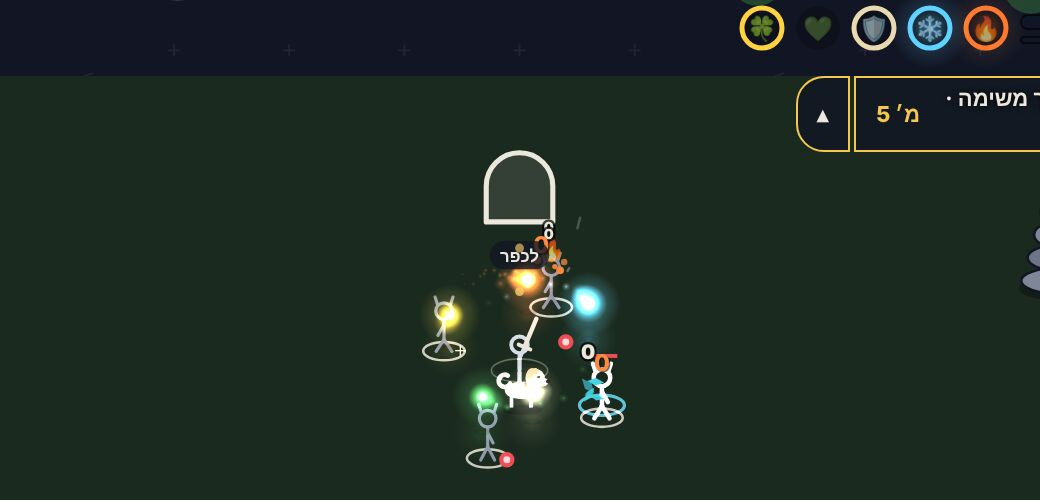
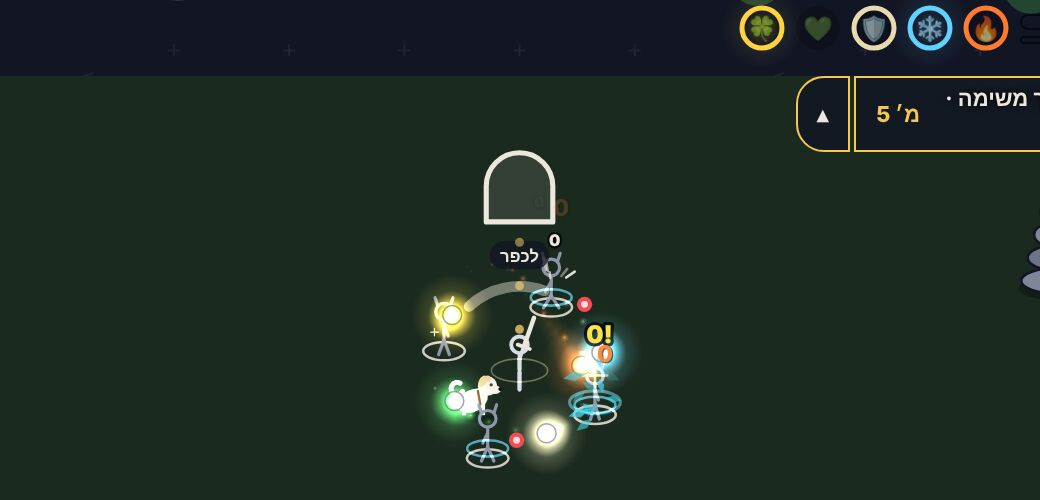
האורות לפי מחקר הקרב: בדיוק במקום הפגיעה, גדולים יותר, פס אור ומספר בצבע האור, כל אור מהבהב לבד, וציד של מטרה שההתקפה לא בוחרת
Claude-Session: https://claude.ai/code/session_01ABMDoKf5qbJWoY9Rj25bT6

Changed region(s): [[0.4, 0.39, 0.6154, 0.93], [0.9231, 0.03, 0.9846, 0.09], [0.7077, 0.03, 0.7385, 0.09]]

diff --git a/js/wisps.js b/js/wisps.js
@@ -10,8 +10,8 @@ const WISPS={
   // צבע הליבה (כמעט לבן) וההילה לכל סוג. אש ממשיכה את C.ember, קרח את C.tide (סוגי הנזק, dmg.js). הגנה: לבן-חמים (ניר, 1.11)
   col:{attack:['#FFF4D6','#FF7A2E'],control:['#F2FDFF','#5FD2FF'],defense:['#FFFBEF','#E8D9B0'],support:['#F2FFE8','#5BD46B'],luck:['#FFFDE6','#FFD23F']},
   r:58, rVar:0.16, wob:0.35,   // רדיוס סביב הדמות, כמה הוא נושם, וכמה כל אור מקדים או מפגר אחרי המקום שלו במעגל
-  h:26, hBob:6,                 // גובה מעל הקרקע, וכמה הוא עולה ויורד
-  core:4.6, halo:24, trail:9,   // גודל הליבה, ההילה, ואורך השובל (נקודות)
+  h:10, hBob:2,                 // גובה מעל הקרקע, וכמה הוא עולה ויורד. נמוך: האור מצויר איפה שהוא פוגע (מחקר הקרב, docs/plan-combat.md שינוי 2)
+  core:7.8, halo:32, trail:9,   // גודל הליבה, ההילה, ואורך השובל (נקודות). פי 1.7 מהגחלילית הראשונה, כדי שיראו אותו בקרב
   lag:7,                        // כמה מהר האור משיג את הדמות כשהיא זזה (קפיץ). קטן = נגרר יותר
   flash:{t:0.28,k:0.9},         // הבזק כשהחפץ פועל: כמה זמן, וכמה בהירות נוספת
   // חלקיקים לכל סוג: כמה בשנייה, מהירות (vx אקראי, vy), כמה זמן חיים, וגודל. vy שלילי עולה, חיובי נופל
@@ -48,12 +48,13 @@ function wispsUpdate(dt){
   WL.list.length=types.length;
   // הבזקים מהמונים של orbit.js: פגיעה (אש וקרח), עצירת ירייה ובליעת מכה (הגנה), ריפוי (עלה)
   const now={hits:o.hits,def:o.blocked+o.shields,heal:o.healed},was=WL.seen||now;WL.seen=now;
-  const fire={attack:now.hits>was.hits,control:now.hits>was.hits,defense:now.def>was.def,support:now.heal>was.heal};
+  const fire={defense:now.def>was.def,support:now.heal>was.heal};   // אש וכפור מהבהבים כל אחד לבד, כשהוא עצמו פגע (wispsAct)
   const n=types.length;
   types.forEach((ty,i)=>{const w=WL.list[i];w.ty=ty;
     if(fire[ty]){w.fl=W.flash.t;W.stat.flashes++}else w.fl=Math.max(0,w.fl-dt);
     const a=o.a+i*6.283/n+W.wob*Math.sin(t*0.7*w.sp+w.ph),R=W.r*(1+W.rVar*Math.sin(t*1.3*w.sp+w.ph*2));
-    const hh=typeof WH!=='undefined'&&WH[i]&&WH[i].ph,tx=hh?WH[i].x:P.x+Math.cos(a)*R,ty_=hh?WH[i].y:P.y+Math.sin(a)*R*0.85,k=hh?1:1-Math.exp(-W.lag*dt);   // בציד (WHUNT למטה) האור עף לאויב
+    // בדיוק איפה שהחפץ פוגע (S.orb.pos, orbit.js), בלי גרירה. בציד (WHUNT למטה) האור עף לאויב
+    const hh=typeof WH!=='undefined'&&WH[i]&&WH[i].ph,g=o.pos[i]||{x:P.x+Math.cos(a)*R,y:P.y+Math.sin(a)*R},tx=hh?WH[i].x:g.x,ty_=hh?WH[i].y:g.y,k=1;
     w.x+=(tx-w.x)*k;w.y+=(ty_-w.y)*k;w.h=W.h+W.hBob*Math.sin(t*2.1*w.sp+w.ph)+3*Math.sin(t*5.3+w.ph);
     w.tr.unshift({x:w.x,y:w.y-w.h});if(w.tr.length>W.trail)w.tr.pop();
     const pd=W.parts[ty];if(!pd||!pd.rate)return;
@@ -87,6 +88,7 @@ function drawWisps(){
     for(let k=1;k<w.tr.length;k++){const p=w.tr[k],f=1-k/w.tr.length;wispBlit(g,p.x,p.y,W.halo*0.55*f+2,0.45*f*b)}   // שובל
     wispBlit(g,c.x,c.y,W.halo*(0.9+0.1*Math.min(b,1.5)),0.75*b);
     wispBlit(gh,c.x,c.y,W.core*(2.4+w.fl/W.flash.t),b);
+    ctx.globalCompositeOperation='source-over';ctx.globalAlpha=0.35;ctx.strokeStyle='#05070D';ctx.lineWidth=1.2;ctx.beginPath();ctx.arc(c.x,c.y,W.core*0.95,0,7);ctx.stroke();ctx.globalCompositeOperation='lighter';   // טבעת כהה דקה: מפרידה מהדשא
     if(w.ty==='defense'&&(o.sh[i]||0)<=S.t){ctx.globalAlpha=0.25+0.1*Math.sin(WL.t*3);ctx.strokeStyle=col;ctx.lineWidth=1.2;ctx.beginPath();ctx.ellipse(P.x,P.y,22,9,0,0,7);ctx.stroke()}   // מגן מוכן: טבעת דקה ברגלי הדמות
   });
   for(const p of WL.parts){const f=1-p.t/p.life;
@@ -118,9 +120,9 @@ function wispsAct(dt,was){
   // פגיעה של אש או קרח: e.oh[i] התחלף
   for(const e of enemies){if(e.dead||!e.oh){e._wo=null;continue}const prev=e._wo||[];
     for(let i=0;i<e.oh.length;i++){if(!e.oh[i]||e.oh[i]===prev[i])continue;const ty=o.types[i],w=WL.list[i];if(!w)continue;
-      if(ty==='attack'){wAct('fire',{x1:w.x,y1:w.y-w.h,e});wAct('icon',{e,s:'🔥'})}
-      else if(ty==='control')wAct('ring',{e});
-      WA.lit[ty]=WACT.row.flash}
+      if(ty==='attack'){wAct('fire',{x1:w.x,y1:w.y-w.h,e,ty});wAct('icon',{e,s:'🔥'})}
+      else if(ty==='control'){wAct('fire',{x1:w.x,y1:w.y-w.h,e,ty});wAct('ring',{e})}   // פס אור מהאור לאויב, וטבעת כפור
+      w.fl=WISPS.flash.t;WISPS.stat.flashes++;WA.lit[ty]=WACT.row.flash}
     e._wo=e.oh.slice()}
   // אבן: ירייה שנעצרה או מכה שנבלעה. עלה: ריפוי
   const di=o.types.indexOf('defense'),dw=WL.list[di];
@@ -136,7 +138,9 @@ function wispsAct(dt,was){
 const wTipN=ty=>{const D=ORBIT.types[ty];return D.shield?D.shield.every:D.heal?D.heal.every:''};
 // מכה קריטית כשהתלתן לבוש: כוכב על האויב. עוטפים את juiceHit (juice.js) מבחוץ
 (()=>{if(typeof juiceHit!=='function')return;const old=juiceHit;
-  juiceHit=function(e,d,m,crit){const r=old.apply(this,arguments);
+  juiceHit=function(e,d,m,crit,t){const r=old.apply(this,arguments);
+    // מספר הנזק של אור בצבע של האור (לא לבן כמו החרב): הפגיעות בתוך orbitUpdate הן של האורות
+    if(r&&WA.inOrb&&wActOn()&&!crit){const ty=t==='fire'?'attack':t==='ice'?'control':null,J=juice(),n=J.n[J.n.length-1];if(ty&&n)n.col=WISPS.col[ty][1]}
     if(crit&&wActOn()&&S.orb&&S.orb.types.includes('luck')){wAct('star',{e});WA.lit.luck=WACT.row.flash}return r}})();
 
 /* ---- ציד (בעולם בלבד): אור האש והכפור יוצאים לאויב הקרוב ופוגעים בו, וחוזרים (מדידה, 1.11: בלי זה אש פוגעת פעם ב-30 שניות, כי האויבים מתים לפני שהם מגיעים לטבעת).
@@ -150,8 +154,9 @@ function wispsHunt(dt){
     if(!WHUNT.types.includes(ty)){h.ph=null;return}
     const home=o.pos[i]||{x:P.x,y:P.y};
     if(!h.ph){h.cd-=dt;h.x=home.x;h.y=home.y;if(h.cd>0)return;
-      let best=null,bd=WHUNT.range;for(const e of enemies){if(e.dead||e.node||e.creature)continue;   // יצורים שלווים לא נצודים
-        const d=Math.hypot(e.x-P.x,e.y-P.y);if(d<bd){bd=d;best=e}}
+      // מטרה שההתקפה האוטומטית לא בוחרת (מחקר הקרב): קודם משוריין, אחר כך הרחוק ביותר בטווח. יצורים שלווים לא נצודים
+      let best=null,bs=-1;for(const e of enemies){if(e.dead||e.node||e.creature)continue;const d=Math.hypot(e.x-P.x,e.y-P.y);if(d>WHUNT.range)continue;
+        const sc=d+(e.affix==='tough'?1000:0)+(WH.some(o=>o&&o.ph==='out'&&o.e===e)?-2000:0);if(sc>bs){bs=sc;best=e}}
       if(!best){h.cd=0.3;return}h.ph='out';h.e=best}
     if(h.ph==='out'){const e=h.e;if(!e||e.dead){h.ph='back';return}
       const dx=e.x-h.x,dy=e.y-h.y,d=Math.hypot(dx,dy)||1,st=WHUNT.speed*dt;
@@ -162,13 +167,15 @@ function wispsHunt(dt){
       if(d<=st){h.ph=null;h.cd=WHUNT.every}else{h.x+=dx/d*st;h.y+=dy/d*st}}
   });
 }
-(()=>{const old=orbitUpdate;orbitUpdate=function(dt){old.apply(this,arguments);wispsHunt(dt)}})();
+(()=>{const old=orbitUpdate;orbitUpdate=function(dt){WA.inOrb=true;try{old.apply(this,arguments);wispsHunt(dt)}finally{WA.inOrb=false}}})();
 
 function drawWispAct(){
+  if(wActOn()&&S.orb&&S.orb.types.includes('control')){ctx.save();ctx.globalCompositeOperation='lighter';ctx.strokeStyle=WISPS.col.control[1];ctx.lineWidth=2;   // מואט מכפור: קרח על הרגליים
+    for(const e of enemies)if(!e.dead&&e.slow>0){ctx.globalAlpha=0.35+0.25*Math.min(1,e.slow);ctx.beginPath();ctx.ellipse(e.x,e.y+2,e.r+3,(e.r+3)*0.4,0,0,7);ctx.stroke()}ctx.restore()}
   if(!WA.fx.length)return;ctx.save();
   for(const f of WA.fx){const k=f.t/f.life,a=1-k;
     if(f.e&&f.e.dead&&f.k!=='fire'){continue}
-    if(f.k==='fire'){const x2=f.e.x,y2=f.e.y-f.e.r*0.6,g=wispGlow(WISPS.col.attack[1]);ctx.globalCompositeOperation='lighter';   // שובל גחלים מהאור לאויב
+    if(f.k==='fire'){const x2=f.e.x,y2=f.e.y-f.e.r*0.6,g=wispGlow(WISPS.col[f.ty||'attack'][1]);ctx.globalCompositeOperation='lighter';   // שובל גחלים מהאור לאויב
       for(let j=0;j<=6;j++){const u=j/6;if(u>k*1.6+0.2)break;wispBlit(g,f.x1+(x2-f.x1)*u,f.y1+(y2-f.y1)*u-Math.sin(u*3.14)*10,5*(1-u*0.4),0.8*a)}}
     else if(f.k==='icon'){ctx.globalCompositeOperation='source-over';ctx.globalAlpha=a;ctx.textAlign='center';ctx.direction='ltr';ctx.font=Math.round(11/ZOOM)+'px system-ui';ctx.fillText(f.s,f.e.x,f.e.y-f.e.r-14-k*10)}
     else if(f.k==='ring'){ctx.globalCompositeOperation='lighter';ctx.globalAlpha=0.8*a;ctx.strokeStyle=WISPS.col.control[1];ctx.lineWidth=2.5;ctx.beginPath();ctx.ellipse(f.e.x,f.e.y,f.e.r*(1+k*0.5)+4,(f.e.r*(1+k*0.5)+4)*0.45,0,0,7);ctx.stroke()}
